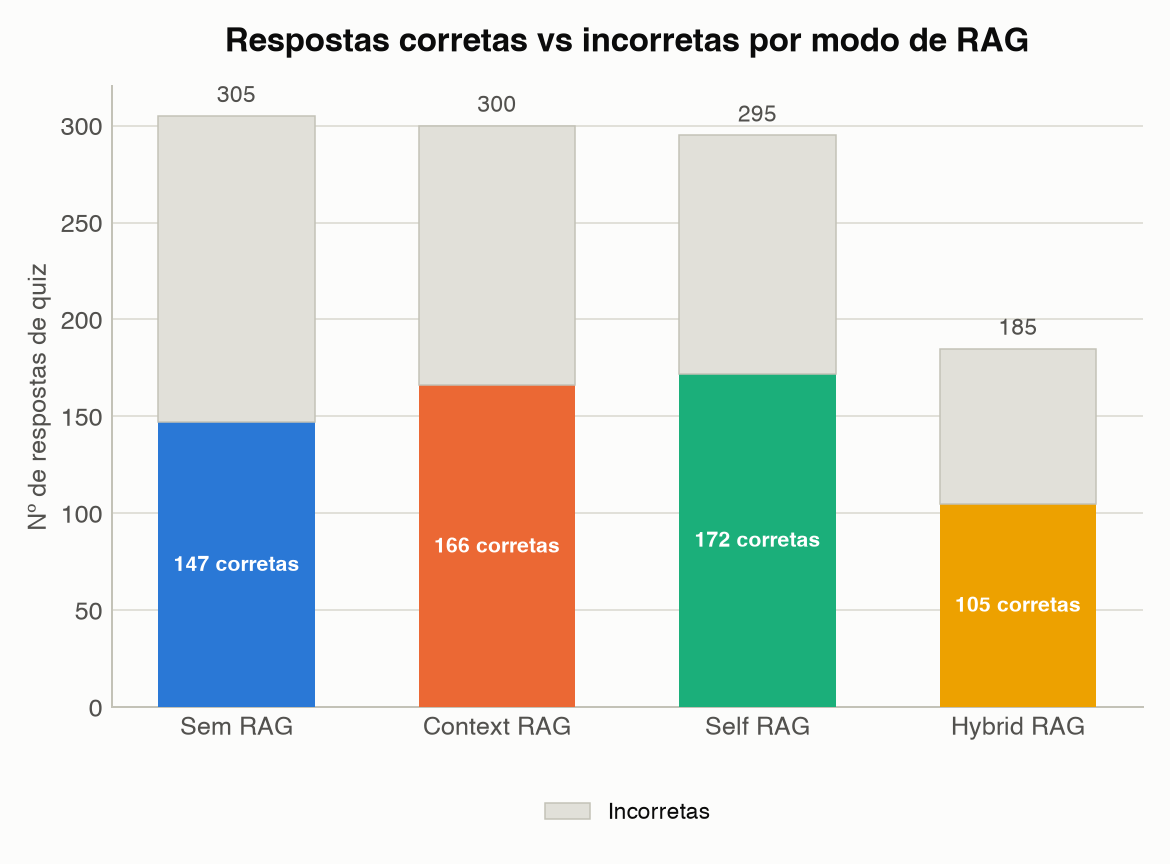
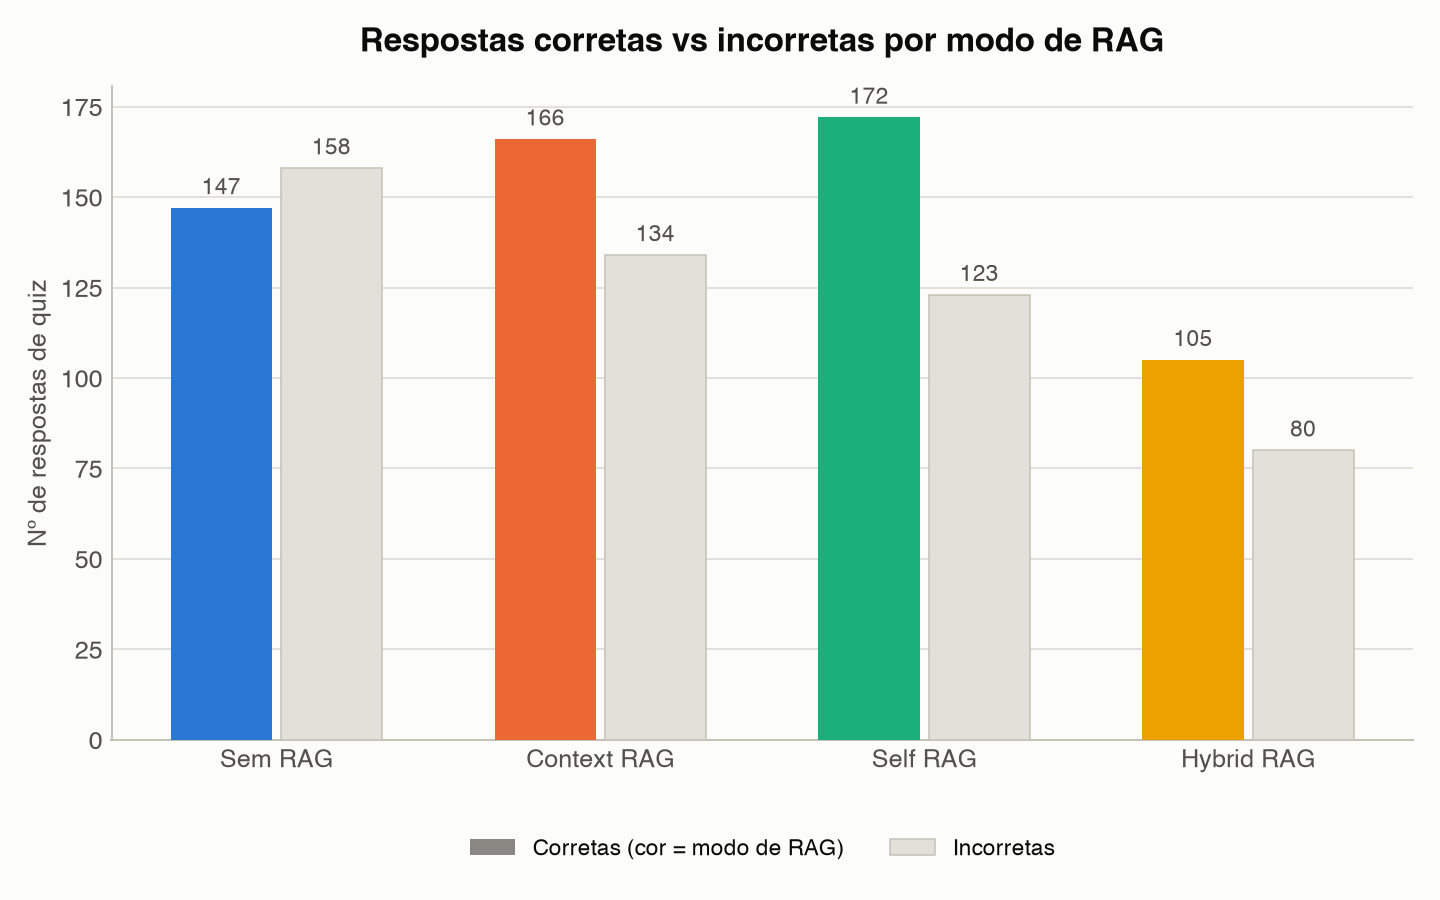
Redesign acertos_vs_erros chart as grouped bars for clarity
The stacked version made the incorrect-answer count hard to read (needed
subtracting from the total). Switched to two side-by-side bars per RAG
mode, both directly labeled with their count.

Changed region(s): [[0.0, 0.0938, 0.9846, 0.875], [0.1846, 0.0312, 0.8923, 0.0625], [0.3077, 0.9062, 0.7385, 0.9688]]

diff --git a/scripts/generate_charts.py b/scripts/generate_charts.py
@@ -189,27 +189,32 @@ def main():
         group_labels=list(acc_by_day.keys()), fmt="{:.0f}%", pct=True,
     )
 
-    # acertos vs erros (barra empilhada) - a cor identifica o modo de RAG (segmento
-    # "corretas"); o segmento cinza é sempre "incorretas", rotulado direto na barra.
-    fig, ax = new_fig(6.5, 4.8)
-    xs = list(range(len(RAG_ORDER)))
+    # acertos vs erros: duas barras lado a lado por modo (corretas coloridas pelo
+    # modo, incorretas em cinza), cada uma com o valor rotulado em cima - dá pra
+    # ler a contagem exata de erradas direto, sem precisar subtrair.
+    fig, ax = new_fig(8.0, 5.0)
     correct = [by_mode[m]["quiz_correct_answers"] for m in RAG_ORDER]
     wrong = [by_mode[m]["quiz_total_answers"] - by_mode[m]["quiz_correct_answers"] for m in RAG_ORDER]
-    ax.bar(xs, correct, width=0.6, color=[RAG_COLORS[m] for m in RAG_ORDER], zorder=3)
-    ax.bar(xs, wrong, width=0.6, bottom=correct, color=GRIDLINE, edgecolor=BASELINE,
-           linewidth=0.6, zorder=3, label="Incorretas")
-    ax.set_xticks(xs)
+    n = len(RAG_ORDER)
+    x = list(range(n))
+    width = 0.34
+    b1 = ax.bar([xi - width / 2 for xi in x], correct, width=width * 0.92,
+                color=[RAG_COLORS[m] for m in RAG_ORDER], zorder=3)
+    b2 = ax.bar([xi + width / 2 for xi in x], wrong, width=width * 0.92,
+                color=GRIDLINE, edgecolor=BASELINE, linewidth=0.6, zorder=3)
+    ax.set_xticks(x)
     ax.set_xticklabels([RAG_LABELS[m] for m in RAG_ORDER])
     ax.set_ylabel("Nº de respostas de quiz")
     ax.set_title("Respostas corretas vs incorretas por modo de RAG", fontsize=13,
                   fontweight="bold", color=INK_PRIMARY, pad=14)
-    for i, m in enumerate(RAG_ORDER):
-        c, total = correct[i], by_mode[m]["quiz_total_answers"]
-        ax.annotate(f"{c} corretas", xy=(i, c / 2), ha="center", va="center",
-                    fontsize=8.5, color="white", fontweight="bold")
-        ax.annotate(f"{total}", xy=(i, total), xytext=(0, 4), textcoords="offset points",
-                    ha="center", va="bottom", fontsize=9, color=INK_SECONDARY)
-    ax.legend(frameon=False, loc="upper center", bbox_to_anchor=(0.5, -0.12), ncol=1, fontsize=9)
+    bar_labels(ax, b1)
+    bar_labels(ax, b2)
+    handles = [
+        plt.Rectangle((0, 0), 1, 1, facecolor=INK_MUTED, edgecolor="none"),
+        plt.Rectangle((0, 0), 1, 1, facecolor=GRIDLINE, edgecolor=BASELINE, linewidth=0.6),
+    ]
+    ax.legend(handles, ["Corretas (cor = modo de RAG)", "Incorretas"], frameon=False,
+              loc="upper center", bbox_to_anchor=(0.5, -0.12), ncol=2, fontsize=9)
     save(fig, CHARTS_DIR / "quiz" / "acertos_vs_erros_por_rag.png")
 
     # ============================ charts/engajamento ============================
